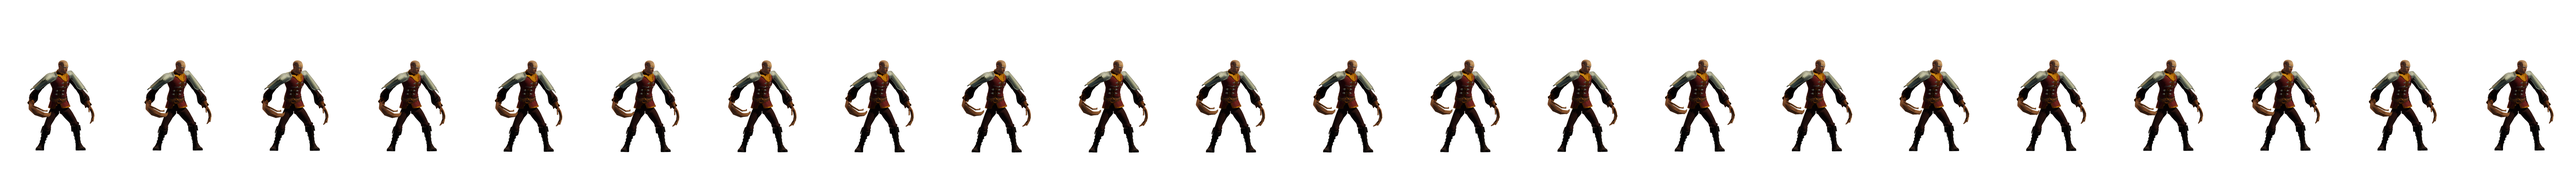
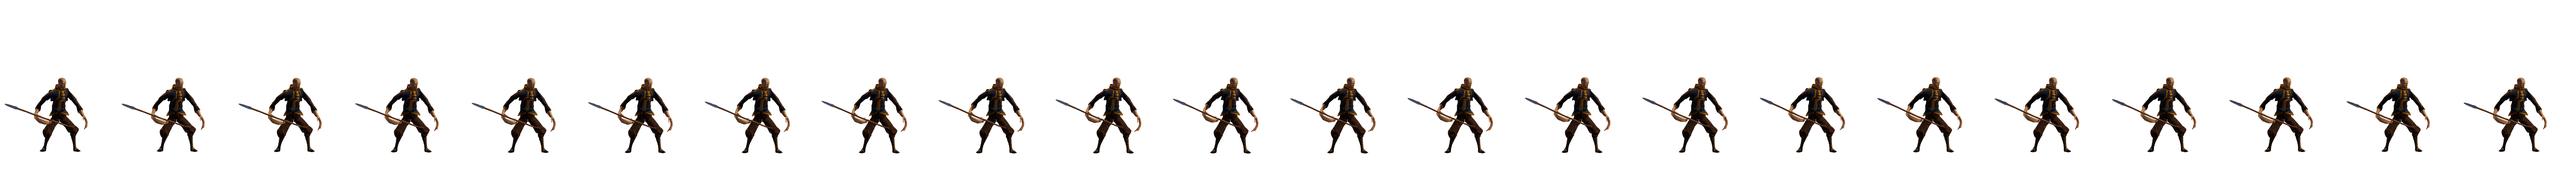
The Warlock gets the kit's only robe, and the claw turns out to be a grip
**There is one robe in either pack — `Male_Wizard_Body` — and the reason it was
unusable was its sleeves, not the robe.** They fall past the wrist into a wide
open cuff, and Data Transfer gives those vertices the weights of the nearest
surface, which is the fingers. A modular kit is for mixing, so the robe now
comes with `Male_Peasant_Arms`: the Wizard's body, legs and feet, and sleeves
that end where a sleeve should.

**The clawed hand was never a deformity.** `Staff-Idle` closes the right hand
around a shaft and leaves the left open — so a staff bound to the wrong hand
leaves a fist curled around nothing, three long fingers hooked shut, which at
300 pixels reads as a claw. It was reported twice as a broken hand, survived a
change of outfit, and survived the weapon being removed entirely, which is what
finally ruled the mesh out. `add_weapon` takes `--hand` now.

The scythe stays gone. Its snath curves, so every seating that clears the hip
puts the curve through the thigh; the spear is straight and reads as a staff at
this size, which is what the robe wanted anyway.

Changed region(s): [[0.0, 0.3556, 0.9974, 0.8593]]

diff --git a/tools/outfit.py b/tools/outfit.py
@@ -101,7 +101,7 @@ def parse_args():
     argv = sys.argv
     argv = argv[argv.index('--') + 1:] if '--' in argv else []
     out = {'out': None, 'kit': KIT, 'fbx': 'art/mixamo/X Bot.fbx', 'tex': '512', 'head': HEAD,
-           'subdiv': '1', 'parts': None, 'weapon': None, 'shield': None, 'grip': 'fist', 'stiff': None}
+           'subdiv': '1', 'parts': None, 'weapon': None, 'shield': None, 'grip': 'fist', 'stiff': None, 'hand': 'Right'}
     i = 0
     while i < len(argv):
         k = argv[i].lstrip('-')
@@ -598,7 +598,14 @@ def add_weapon(name, length, tier, arm, body):
     body_h = bounds([body])[1].z - bounds([body])[0].z
     s = (length * body_h) / max(1e-6, span)
 
-    grip = hand_grip(arm)
+    # **Which fist.** A clip decides this, not the character: `Staff-Idle`
+    # closes the *left* hand around a shaft and leaves the right open, and a
+    # staff bound to the right hand therefore leaves a left hand curled around
+    # nothing — three long fingers hooked shut, which at 300 pixels reads as a
+    # claw. It was reported twice as a deformed hand and it is a grip with
+    # nothing in it.
+    hand = ARGS['hand'] if ARGS['hand'] in ('Left', 'Right') else 'Right'
+    grip = hand_grip(arm, hand)
     if not grip:
         return None
     at, along, flat, side, palm = grip
@@ -623,16 +630,18 @@ def add_weapon(name, length, tier, arm, body):
             # alone runs straight through the hip and the thigh — the Warlock's
             # scythe crossed his whole torso and the curl of the snath came out
             # at the far hip looking like a second, badly deformed hand. The
-            # right fist is on the character's right, so *away* is `-across`.
+            # `across` runs right to left, so *away from the body* is `-across`
+            # for the right fist and `+across` for the left.
+            out = 1.0 if hand == 'Left' else -1.0
             seat = (palm - up * (length * body_h * 0.22)
                     + facing * (length * body_h * 0.05)
-                    - across * (length * body_h * 0.07))
+                    + across * (out * length * body_h * 0.07))
             ob.matrix_world = (Matrix.Translation(seat)
                                @ Matrix((facing, across, up)).transposed().to_4x4()
                                @ Matrix.Scale(s, 4))
             ob.name = f'T{tier}_weapon'
             dress_prop(ob)
-            return bind_prop(ob, arm, 'mixamorig:RightHand')
+            return bind_prop(ob, arm, f'mixamorig:{hand}Hand')
 
     # **The fist has to close *around* the grip, not beside the pommel.** Two
     # corrections, and the first render needed both. The knuckle midpoint is the
@@ -648,7 +657,7 @@ def add_weapon(name, length, tier, arm, body):
     ob.name = f'T{tier}_weapon'
 
     dress_prop(ob)
-    return bind_prop(ob, arm, 'mixamorig:RightHand')
+    return bind_prop(ob, arm, f'mixamorig:{hand}Hand')
 
 
 def stiffen_fingers(ob):
